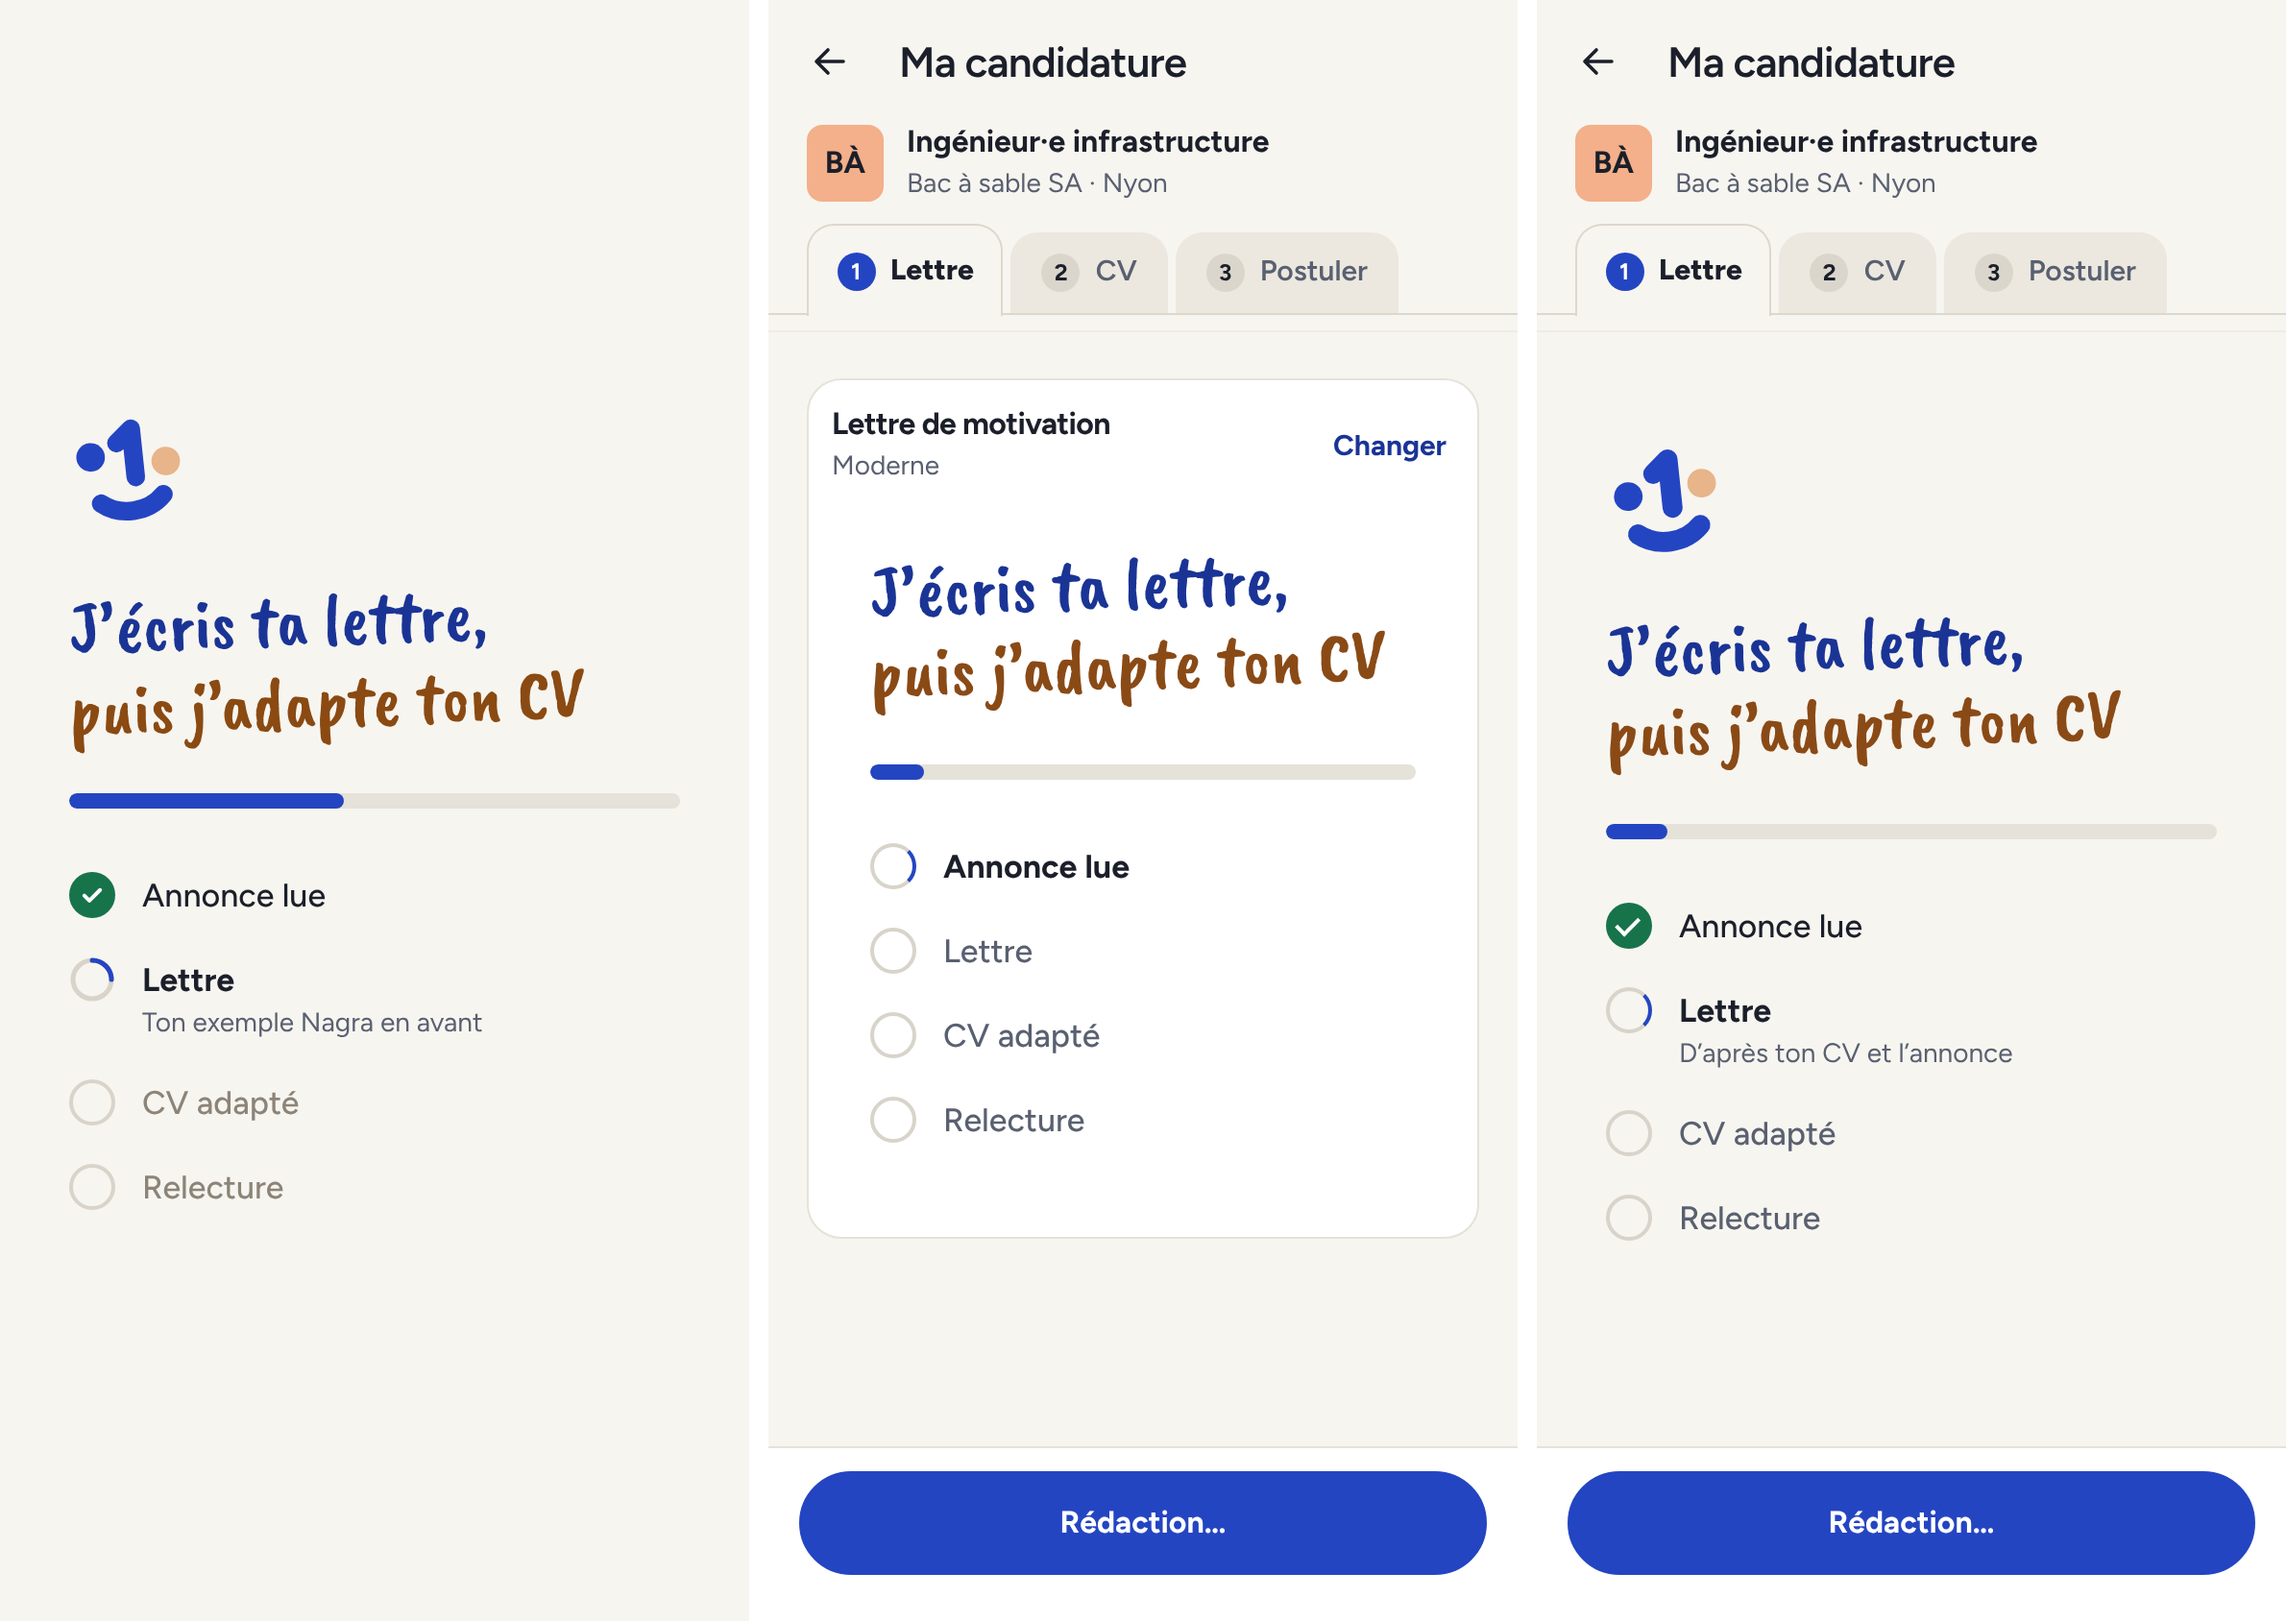
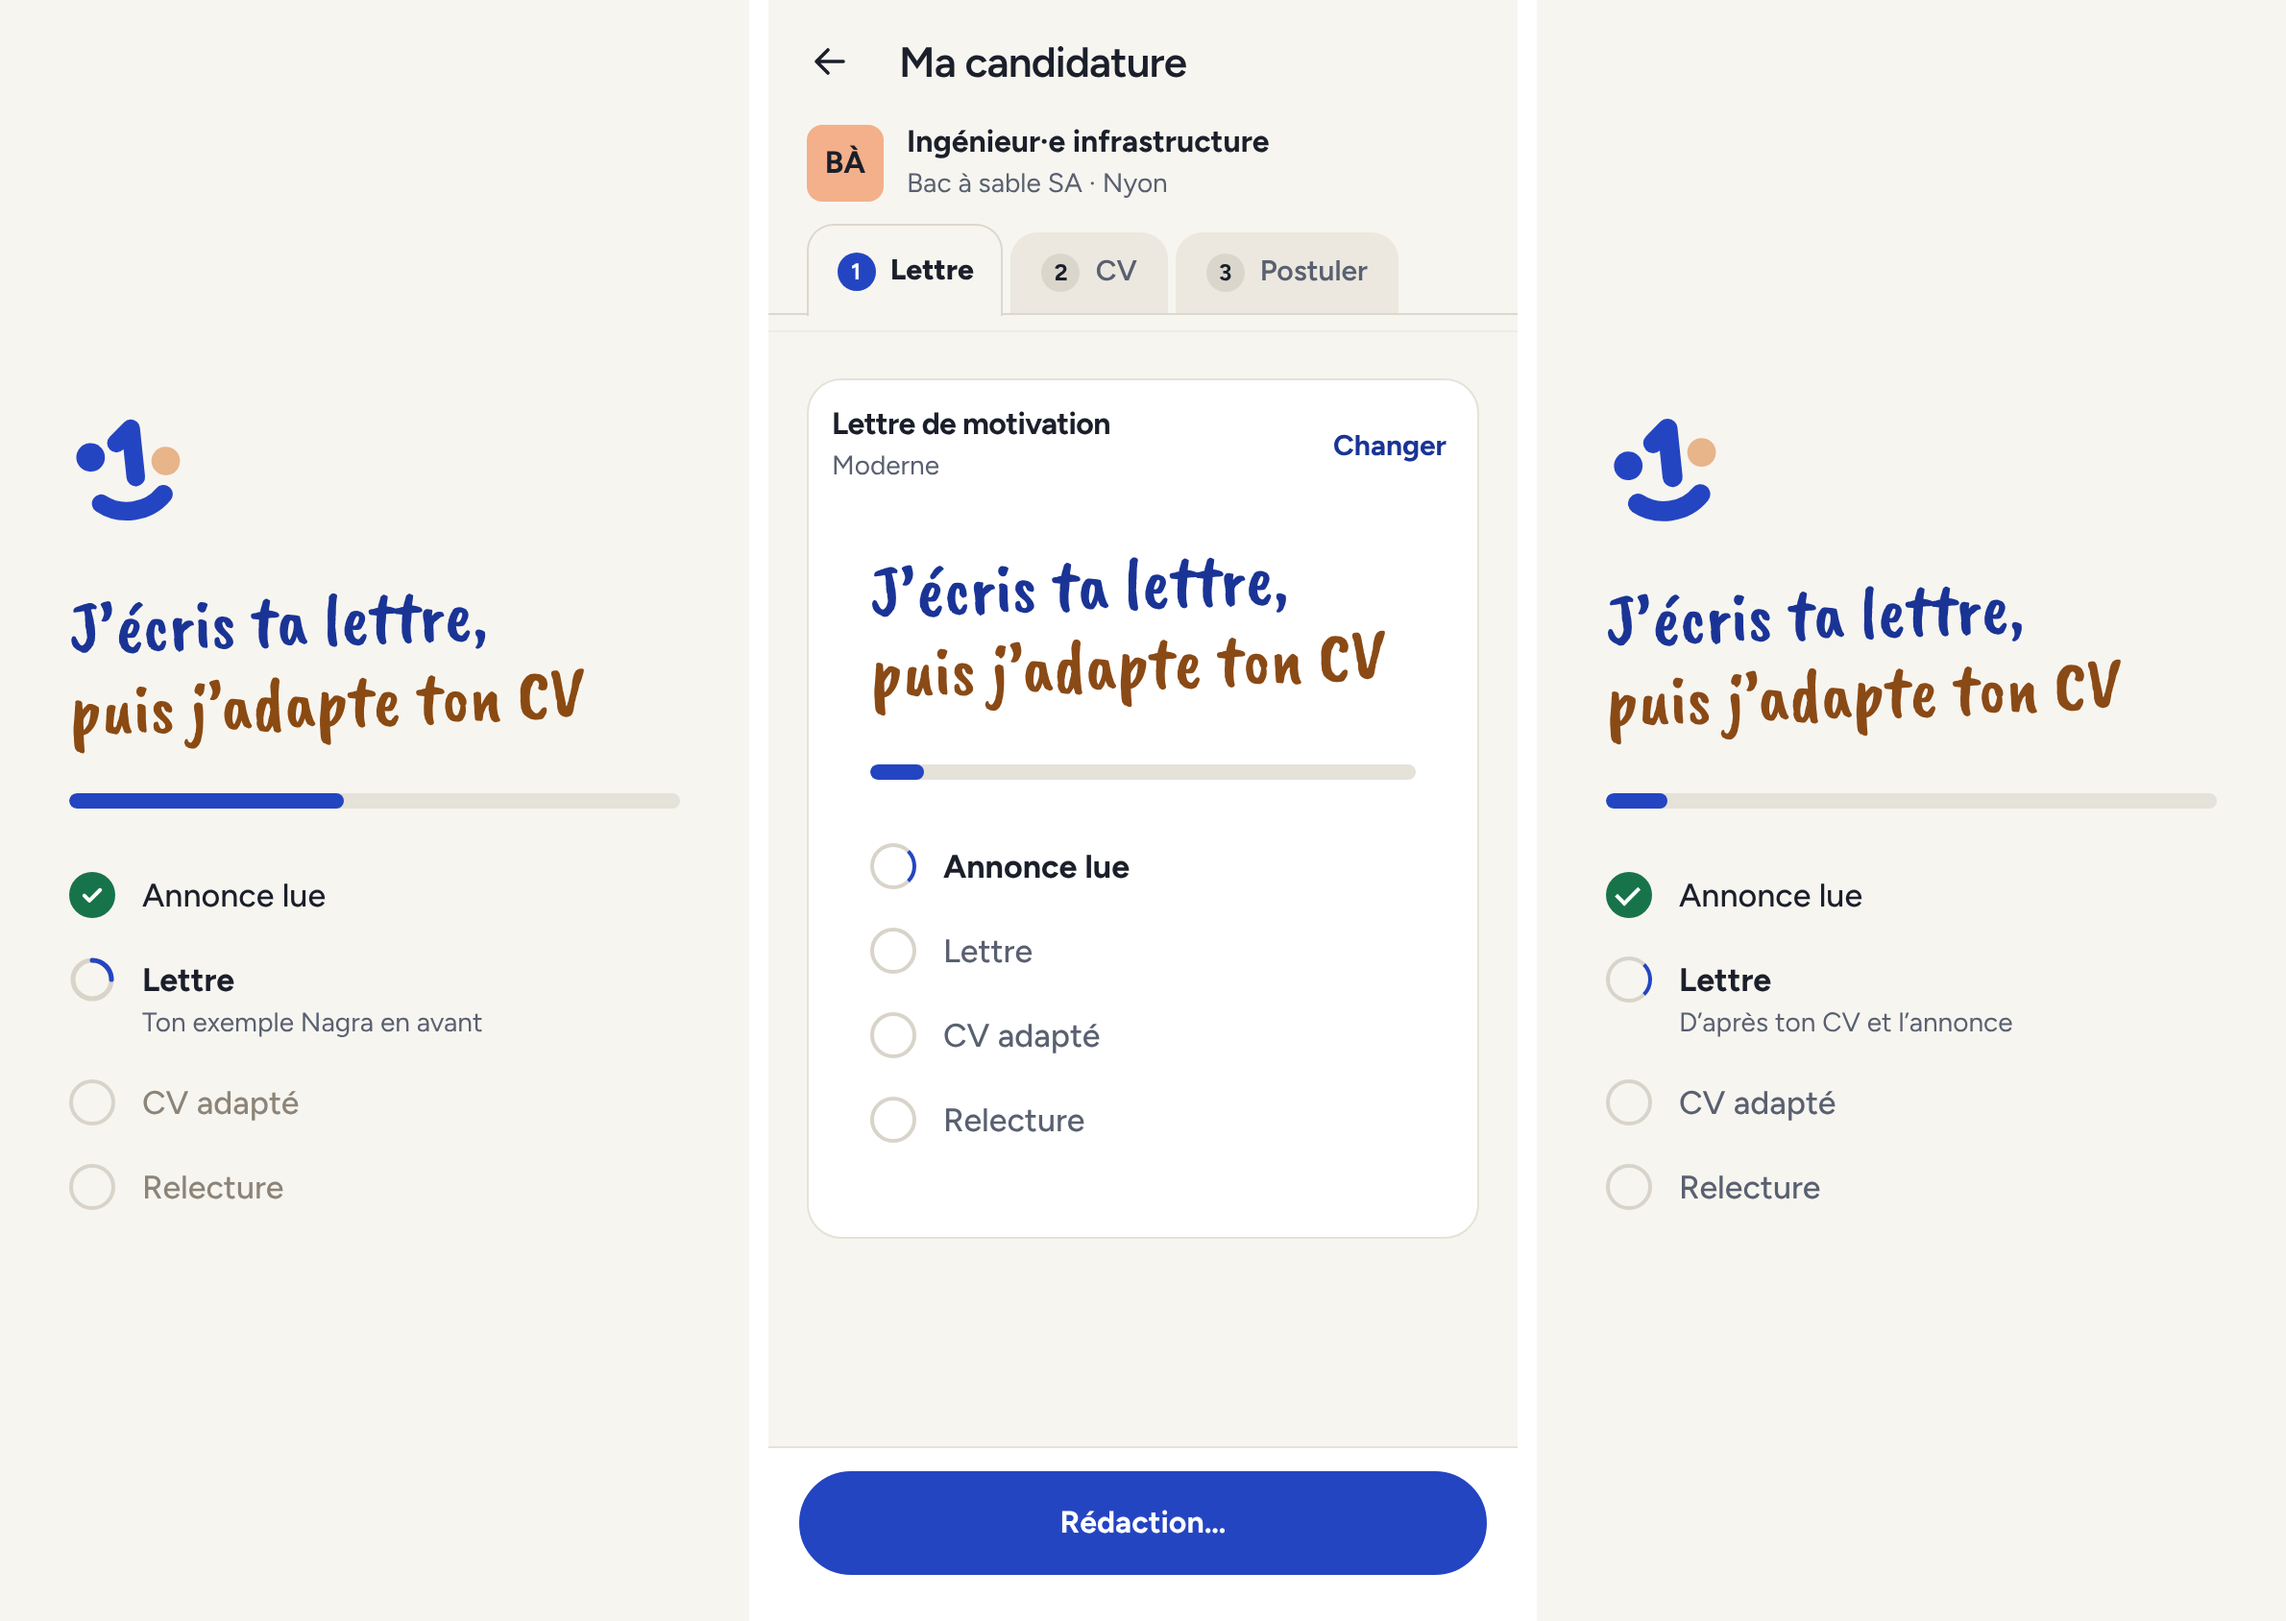
Téléphone : écriture de la lettre en écran entier, comme ChargementLettre
Pendant l'écriture, plus de tête de page (retour, « Ma candidature », offre,
onglets) ni de barre « Rédaction… » ; ils reviennent avec la lettre (Kevin, 19.11).

Claude-Session: https://claude.ai/code/session_014TQZXG9kA4iS9MbKkK4Ayo

diff --git a/frontend/src/views/PreparationView.vue b/frontend/src/views/PreparationView.vue
@@ -917,6 +917,7 @@ onMounted(() => void load());
        ligne (logo, poste, « Entreprise · Lieu », l’anneau sans chiffre, D3) et les étapes. -->
   <PageHero
     v-else-if="phone"
+    v-show="!phoneWriting"
     class="prep-head"
     :title="notFound ? 'Offre introuvable' : 'Ma candidature'"
   >
@@ -1412,7 +1413,7 @@ onMounted(() => void load());
           >
             <!-- Téléphone (§9) : « Moderne · Français » sous le titre et « Changer », qui ouvre la feuille ; plus de
                  FR / DE / EN sur l’écran. Sur ordinateur, FR / DE / EN reste en haut du document. Pendant l’écriture
-                 (planche ChargementLettre, Kevin 19.11) : ni carte ni en-tête, le modèle se change une fois la lettre
+                 (planche ChargementLettre, Kevin 19.11) : ni carte ni en-tête (ni la tête de page, ni la barre du bas), le modèle se change une fois la lettre
                  prête. -->
             <LayoutSheetLink
               v-if="phone && !phoneWriting"
@@ -1988,7 +1989,7 @@ onMounted(() => void load());
         <!-- La barre du bas du téléphone (C6) : un seul bouton plein, la prochaine chose à faire. Une langue
              choisie ou une consigne écrite le change en « Rédiger… » (C3) : rien ne part sans cet appui. -->
         <ActionBar
-          v-if="phone"
+          v-if="phone && !phoneWriting"
           class="prep-bar"
         >
           <InlineConfirm
@@ -2235,6 +2236,8 @@ onMounted(() => void load());
 .prep-desk .side-card > h2 { font-size: var(--font-title); font-weight: var(--weight-bold); }
 /* Planche ChargementLettre (Kevin, 19.11) : pendant l’écriture, plus de carte, tout sur le fond de la page. */
 .doc-card.doc-card-writing { padding: 0; background: none; border: 0; }
+/* L’écran entier, comme la planche : centré, à 36 px des bords. */
+.doc-card-writing .ai-writing-letter { position: fixed; inset: 0; z-index: 1; box-sizing: border-box; justify-content: center; padding: 0 calc(var(--space-8) + var(--space-1)); background: var(--bg); }
 .prep-desk .doc-card { position: relative; gap: 0; padding: 0; overflow: hidden; background: var(--surface-muted); }
 .prep-desk .doc-card-head h2 { font-size: var(--font-title); }
 .prep-desk .doc-card > :not(.doc-card-head, .doc-search, .doc-hit-box, .letter-sheet, .cv-sheet, .prep-writing, .prep-empty-page) { margin-left: var(--prep-24); margin-right: var(--prep-24); }

diff --git a/docs/decisions/2026-11-19-1159-ecriture-lettre-sous-ligne.md b/docs/decisions/2026-11-19-1159-ecriture-lettre-sous-ligne.md
@@ -6,3 +6,5 @@
 - Sous l'étape « Lettre » en cours : « D'après ton CV et l'annonce ». On n'affiche jamais un texte qu'on ne connaît pas
   encore (« Ton exemple Nagra en avant » de la planche n'est connu qu'une fois la lettre écrite).
 - « CV adapté » n'apparaît que si le CV s'adapte dans le même passage, et n'est coché que lorsque le CV est prêt.
+- 19.11, 13 h 07 : pendant l'écriture, la tête de page (retour, « Ma candidature », l'offre, les onglets) et le bouton
+  « Rédaction… » disparaissent aussi, comme sur la planche ; ils reviennent quand la lettre est prête.

diff --git a/changelog.d/ecriture-lettre-ecran-entier.md b/changelog.d/ecriture-lettre-ecran-entier.md
@@ -1,0 +1,1 @@
+Téléphone, écriture de la lettre en écran entier comme ChargementLettre : sans la tête de page ni la barre du bas, qui reviennent avec la lettre
